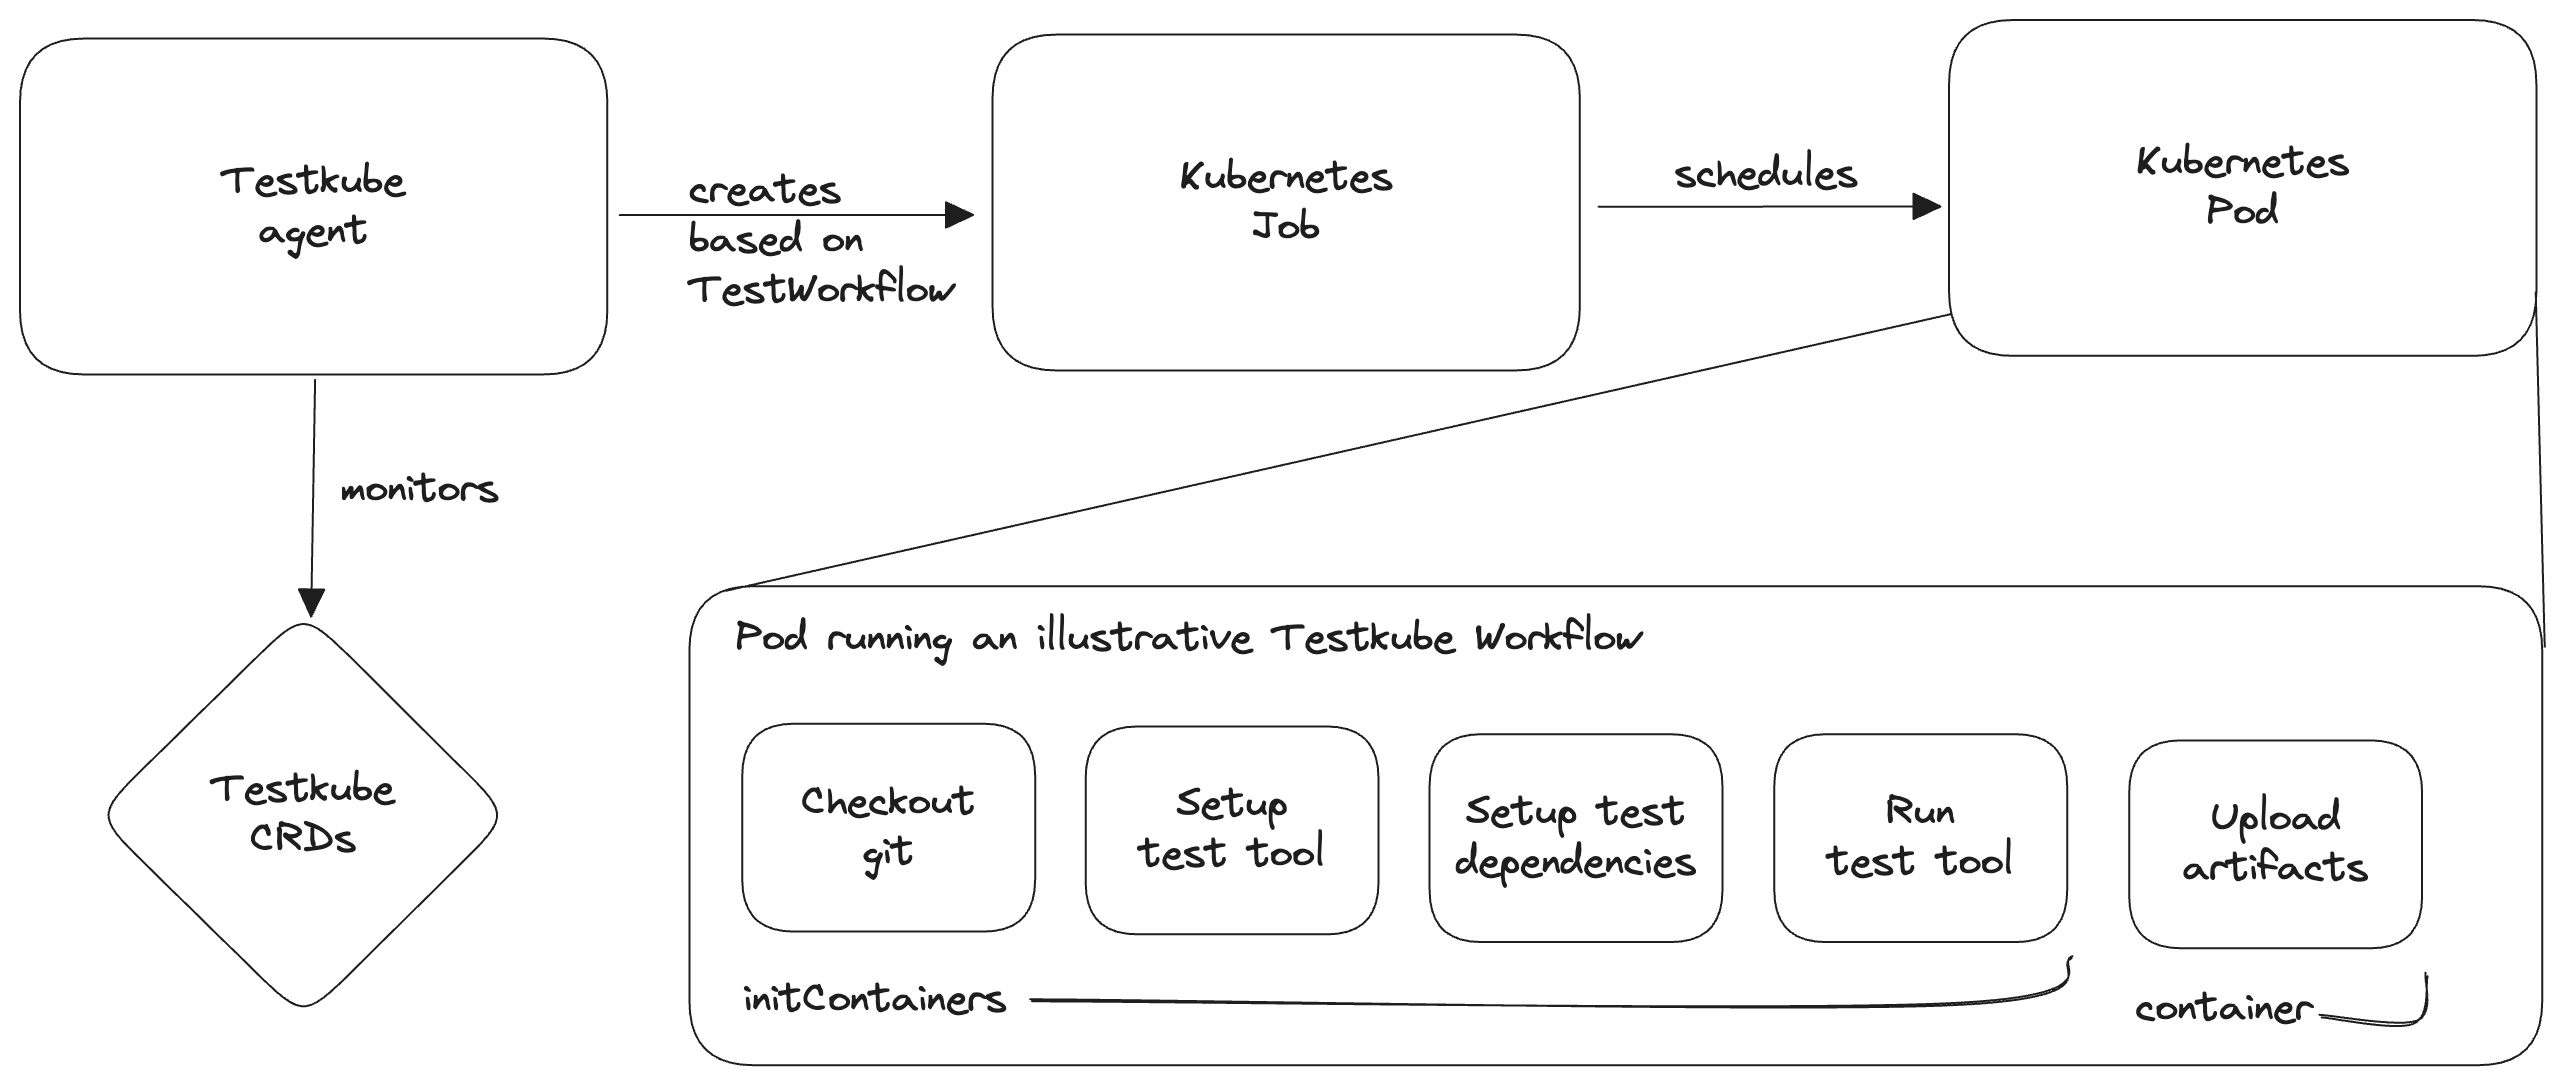
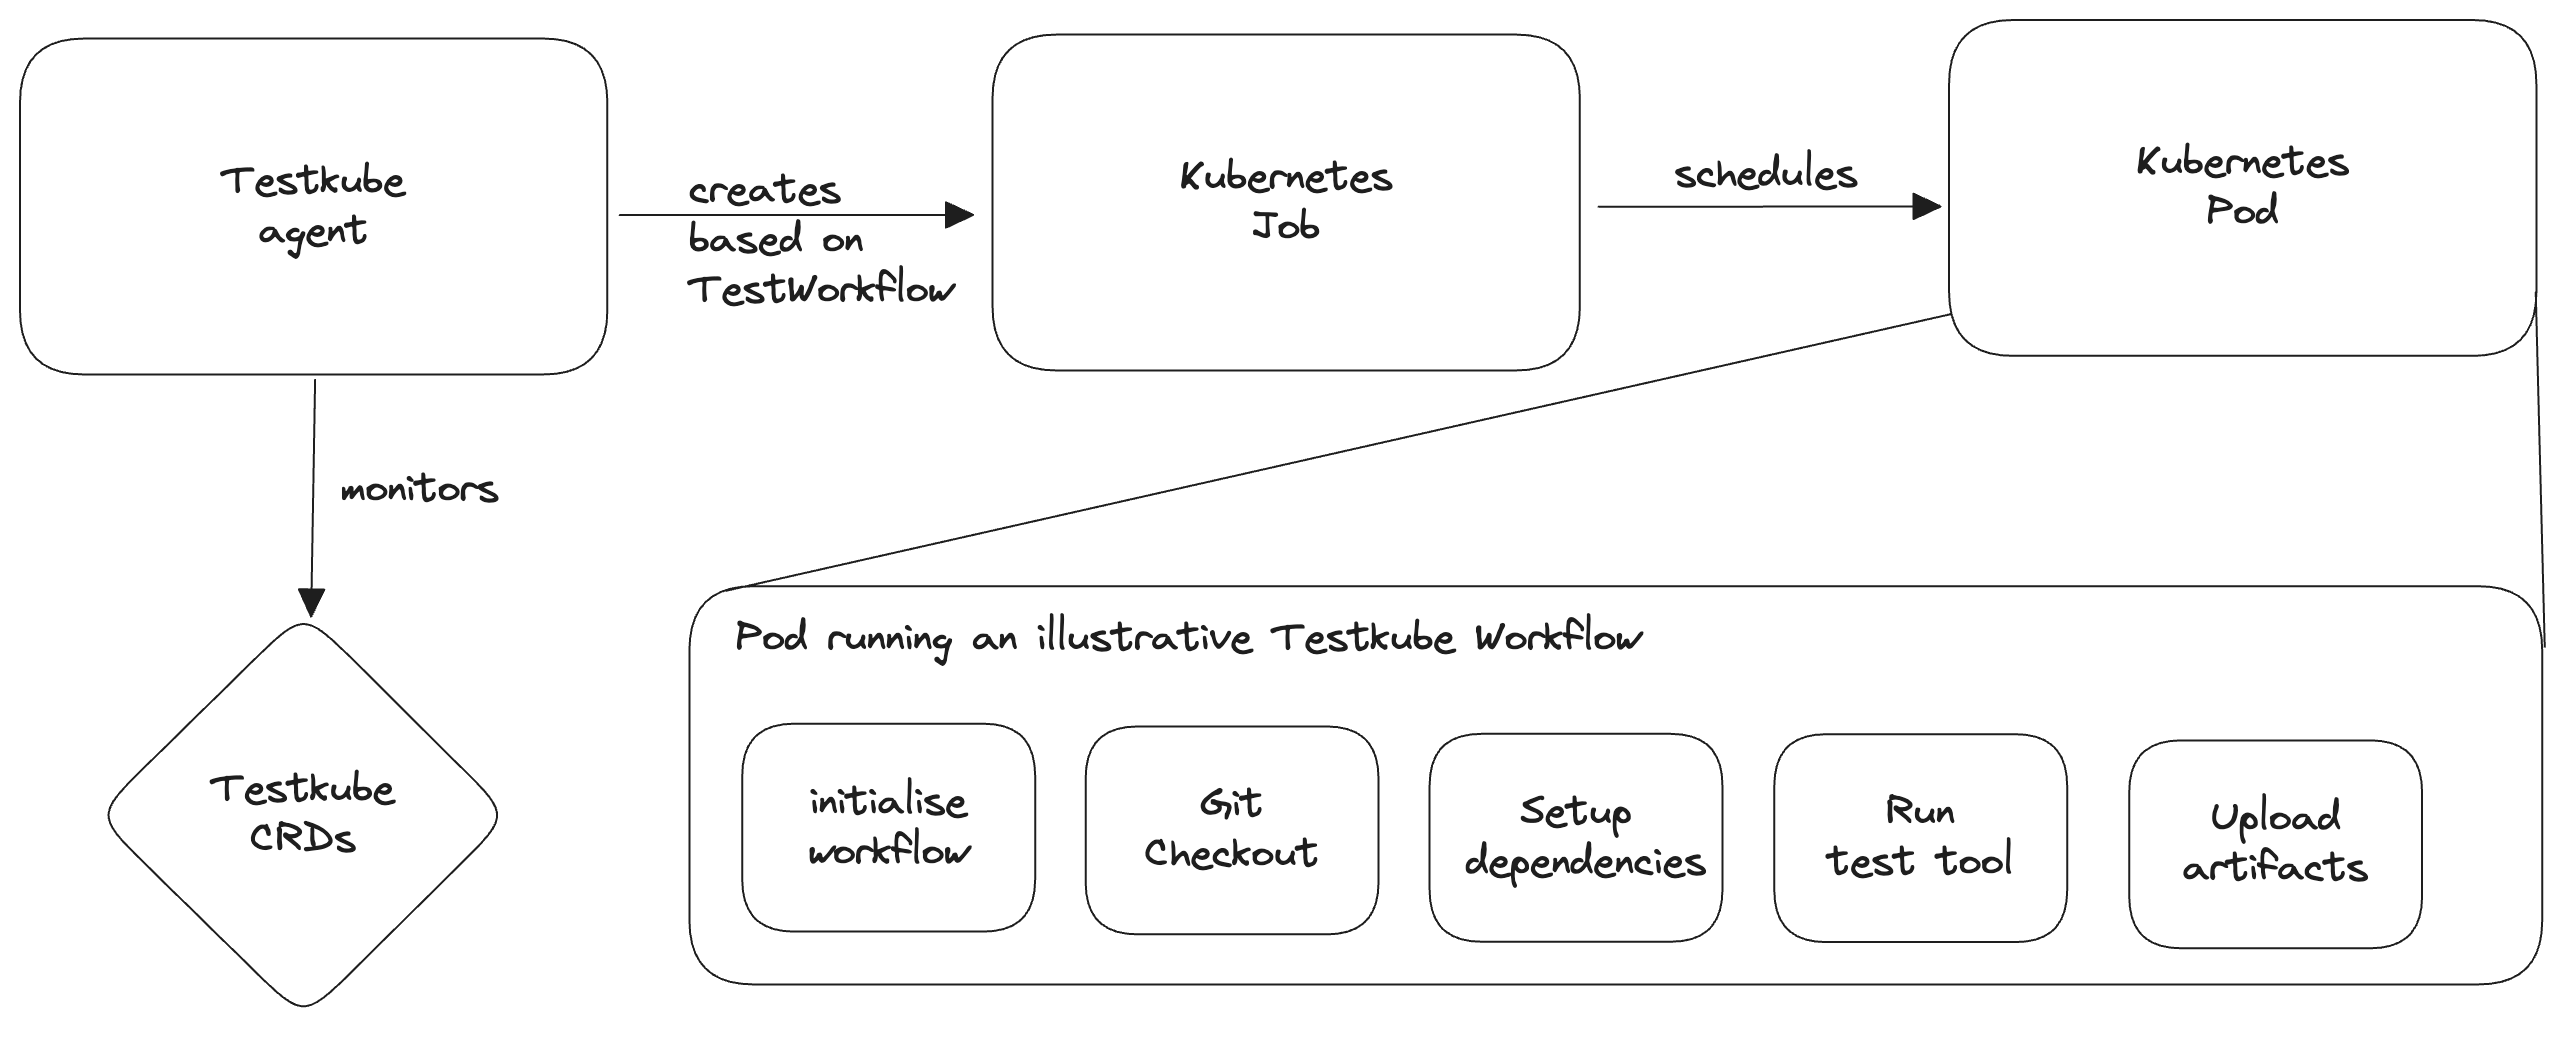
chore: update introduction

diff --git a/src/css/custom.css b/src/css/custom.css
@@ -13,7 +13,7 @@
   --ifm-font-size-base: 16px;
   --ifm-color-primary: #818cf8;
   --ifm-color-secondary: #c8cdff;
-  --ifm-color-third: #EFEDFF;
+  --ifm-color-third: #efedff;
   --ifm-color-primary-dark: #29784c;
   --ifm-color-primary-darker: #277148;
   --ifm-color-primary-darkest: #205d3b;
@@ -35,7 +35,7 @@
   /* --ifm-menu-link-sublist-icon:  */
   --ifm-code-font-size: 90%; /*95%;*/
   --ifm-line-height-base: 1.45; /* Instead of 1.5 */
-  --ifm-leading-desktop: 1.85; /* Instead of 1.5 */
+  --ifm-leading-desktop: 1.2; /* Instead of 1.5 */
   --ifm-list-margin: var(--ifm-leading); /* Keep consistent with the leading */
 
   --ifm-menu-color-background-active: transparent;
@@ -57,8 +57,8 @@
   --ifm-color-primary-light: #29d5b0;
   --ifm-color-primary-lighter: #32d8b4;
   --ifm-color-primary-lightest: #4fddbf;
-  --ifm-color-badge-border: #0EA5E9;
-  --ifm-color-badge: #0C4A6E;
+  --ifm-color-badge-border: #0ea5e9;
+  --ifm-color-badge: #0c4a6e;
   --docusaurus-highlighted-code-line-bg: var(var(--ifm-color-gray-1000));
 }
 
@@ -312,7 +312,6 @@ ul:hover {
   position: relative;
   top: 15%;
   width: 100%;
-
 }
 .tools__card::before {
   position: absolute;

diff --git a/redirects.js b/redirects.js
@@ -422,6 +422,8 @@ const redirects = [
     to: "/articles/install/install-with-cli",
   },
   {
+    from: "/testkube-enterprise/articles/migrating-from-oss-to-pro",
+    to: "/testkube-pro-on-prem/articles/migrating-from-oss-to-pro",
     from: [
       "/testkube-enterprise/articles/usage-guide",
       "/testkube-pro-on-prem/articles/usage-guide",
@@ -430,6 +432,9 @@ const redirects = [
   },
   {
     from: [
+      "/articles/supported-tests",
+      "/articles/testkube-benefits",
+      "/articles/open-source-or-pro",
       "/testkube-pro-on-prem/articles/migrating-from-oss-to-pro",
       "/testkube-enterprise/articles/migrating-from-oss-to-pro",
     ],

diff --git a/sidebars.js b/sidebars.js
@@ -23,15 +23,10 @@ const sidebars = {
       type: "category",
       label: "Getting Started",
       items: [
-        { type: "doc", id: "articles/tutorial/welcome" },
-        { type: "doc", id: "articles/tutorial/installing" },
-        { type: "doc", id: "articles/tutorial/using-workflows" },
-        { type: "doc", id: "articles/tutorial/managing-executions" },
+        "articles/tutorial/introduction",
+        "articles/tutorial/quickstart",
+        "articles/tutorial/example",
       ],
-    },
-    {
-      type: "doc",
-      id: "articles/tutorial/getting-started",
     },
     {
       type: "category",

diff --git a/docs/articles/tutorial/1-introduction.md b/docs/articles/tutorial/1-introduction.md
@@ -1,0 +1,39 @@
+# Introduction
+
+Welcome to Testkube!
+
+Testkube is a test orchestration and execution framework.
+You can automate both simple and complex multi-tool testing scenarios and analyse all of your setup in one centralised place.
+
+## Key Features
+
+#### Test Workflows within your own Kubernetes clusters
+
+Testkube run tests right from within Kubernetes clusters located on your own premise.
+You can reduce the gap between testing and production environments and
+leverage the Kubernetes scheduler to run tests at large scale.
+
+Test Workflows make it simple to orchestrate both simple and complex tests.
+Our aim is to let everyone contribute to assuring quality instead of putting all the effort on a single group.
+
+#### Centralized & Actionable
+
+Growing products make it challenging to keep up with the sheer amount of tests and test data generated. We built a centralised dashboard that acts as a single pane of glass for everything test related.
+
+Our analysis tools facilitate developers and testers with troubleshooting failed tests
+and give engineering managers strategic insights into their current testing practices.
+That way everyone can make better decisions faster.
+
+#### Integrates within the bigger Software Testing Life Cycle
+
+Test execution is a small part of a bigger picture. Testkube integrates with the bigger ecosystem. You can run executions from external tools through triggers, events and use webhooks to keep other tools in the loop.
+
+## How does it work in a nutshell?
+
+The Test Workflow is the bread and butter of Testkube. It's a Kubernetes Custom Resource which defines how your tests are orchestrated on one or multiple clusters. The user experience feels similar to modern CI tools but with a dedicated focus on testing.
+
+![A diagram showing how Testkube works](./img/how-does-it-work.png)
+
+When Test Workflows are triggered, the Testkube Agent will spawn a Kubernetes Job.
+The Kubernetes scheduler will then create a pod which runs the workflow.
+All steps are sequentially executed as containers within the same pod and thus share the file system.
